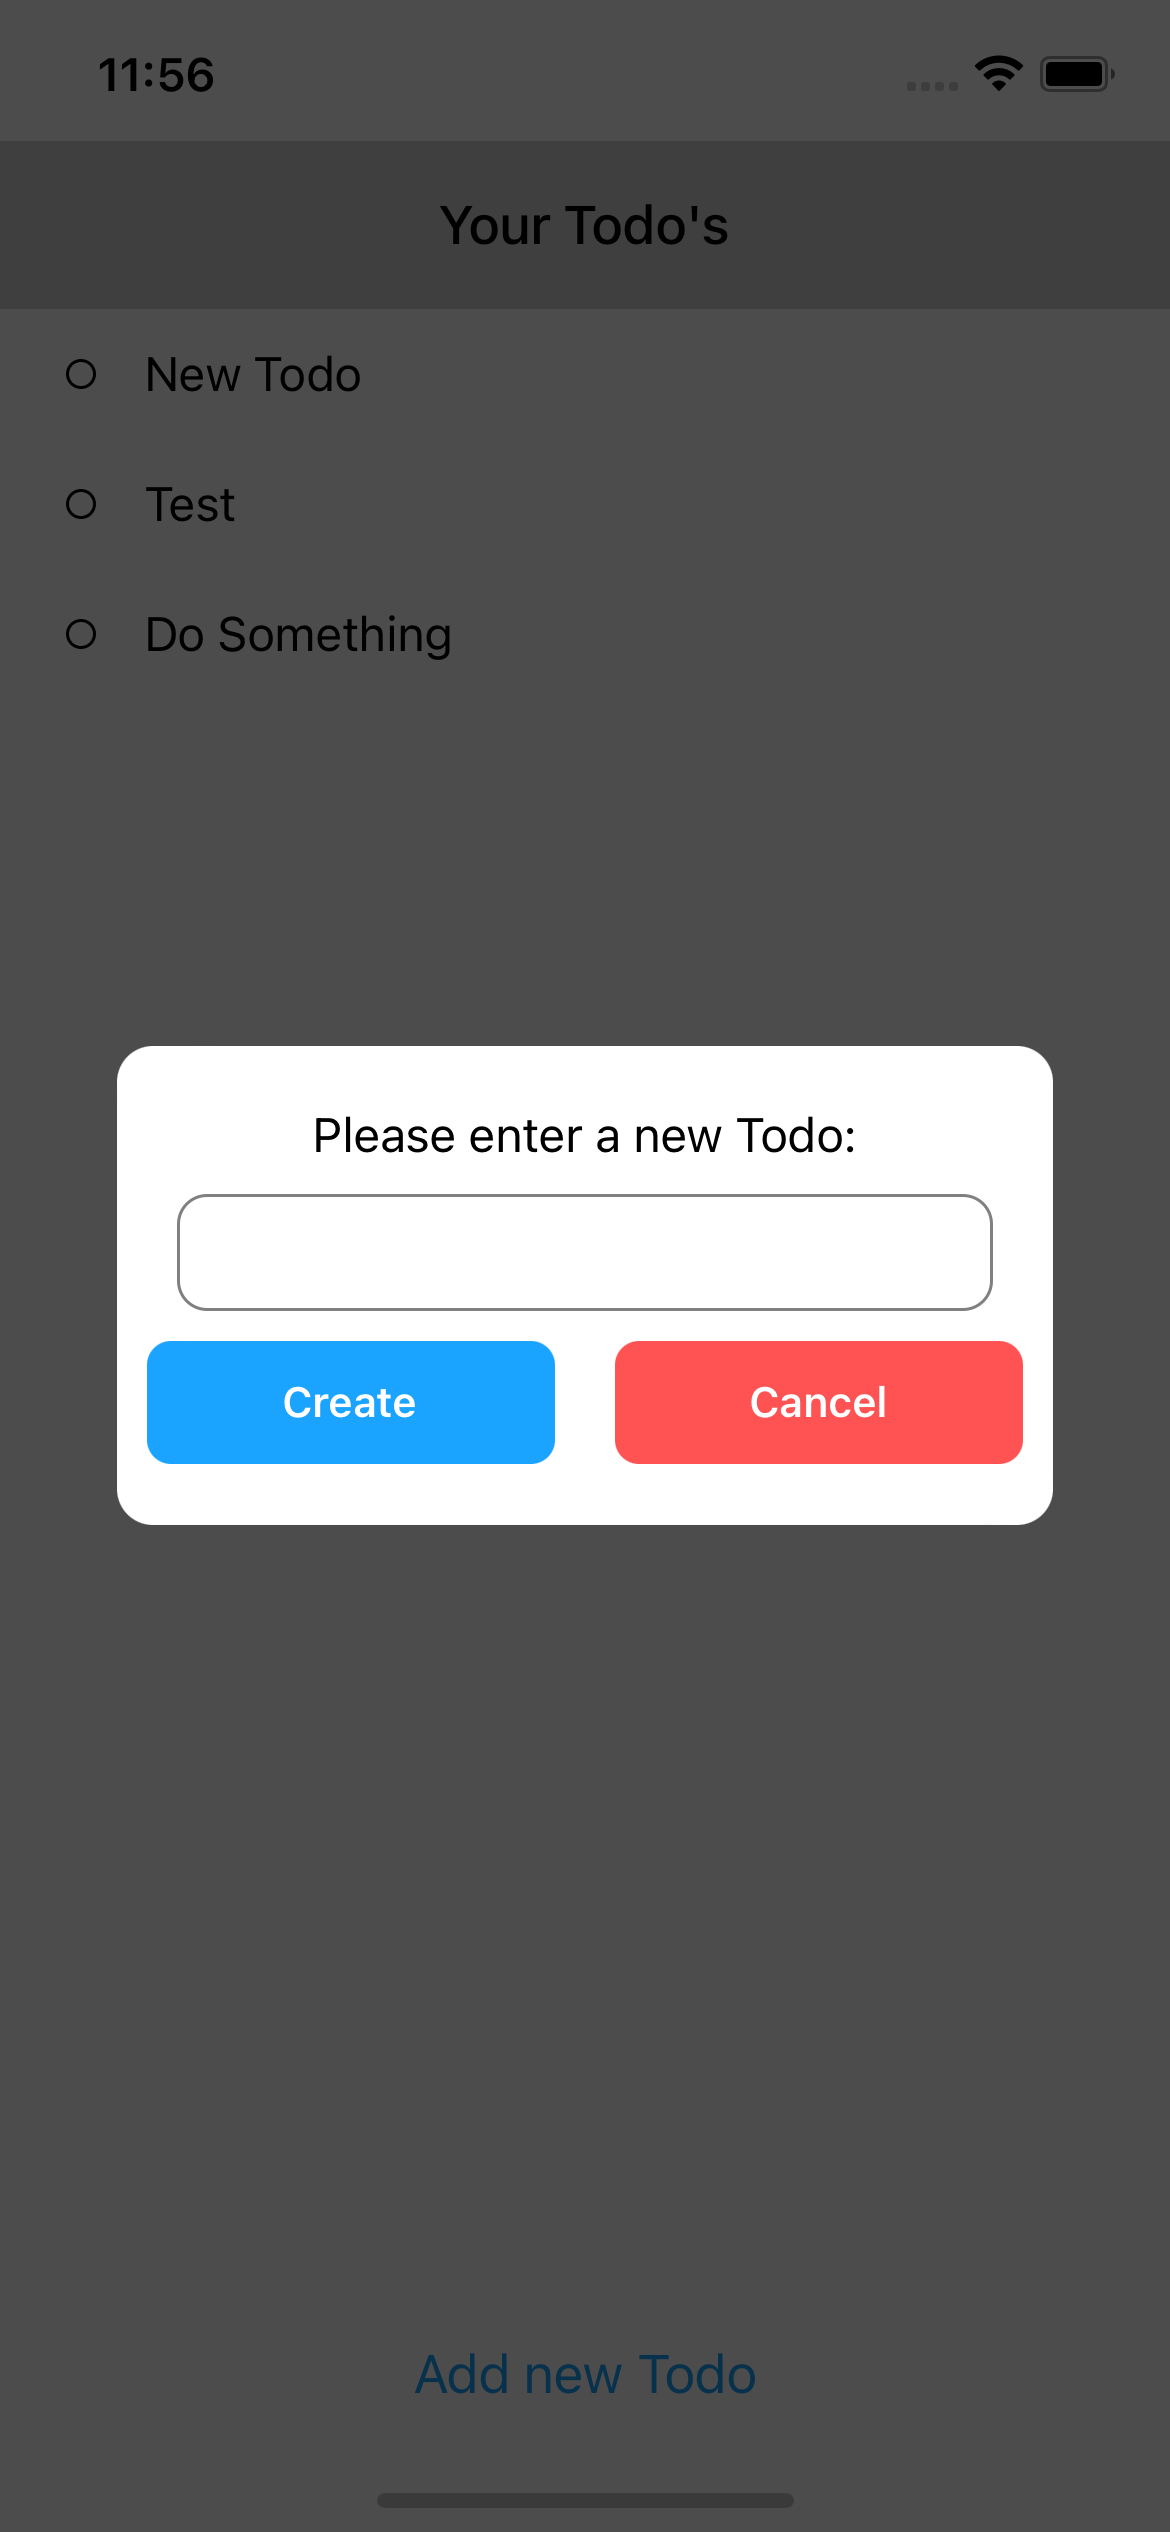
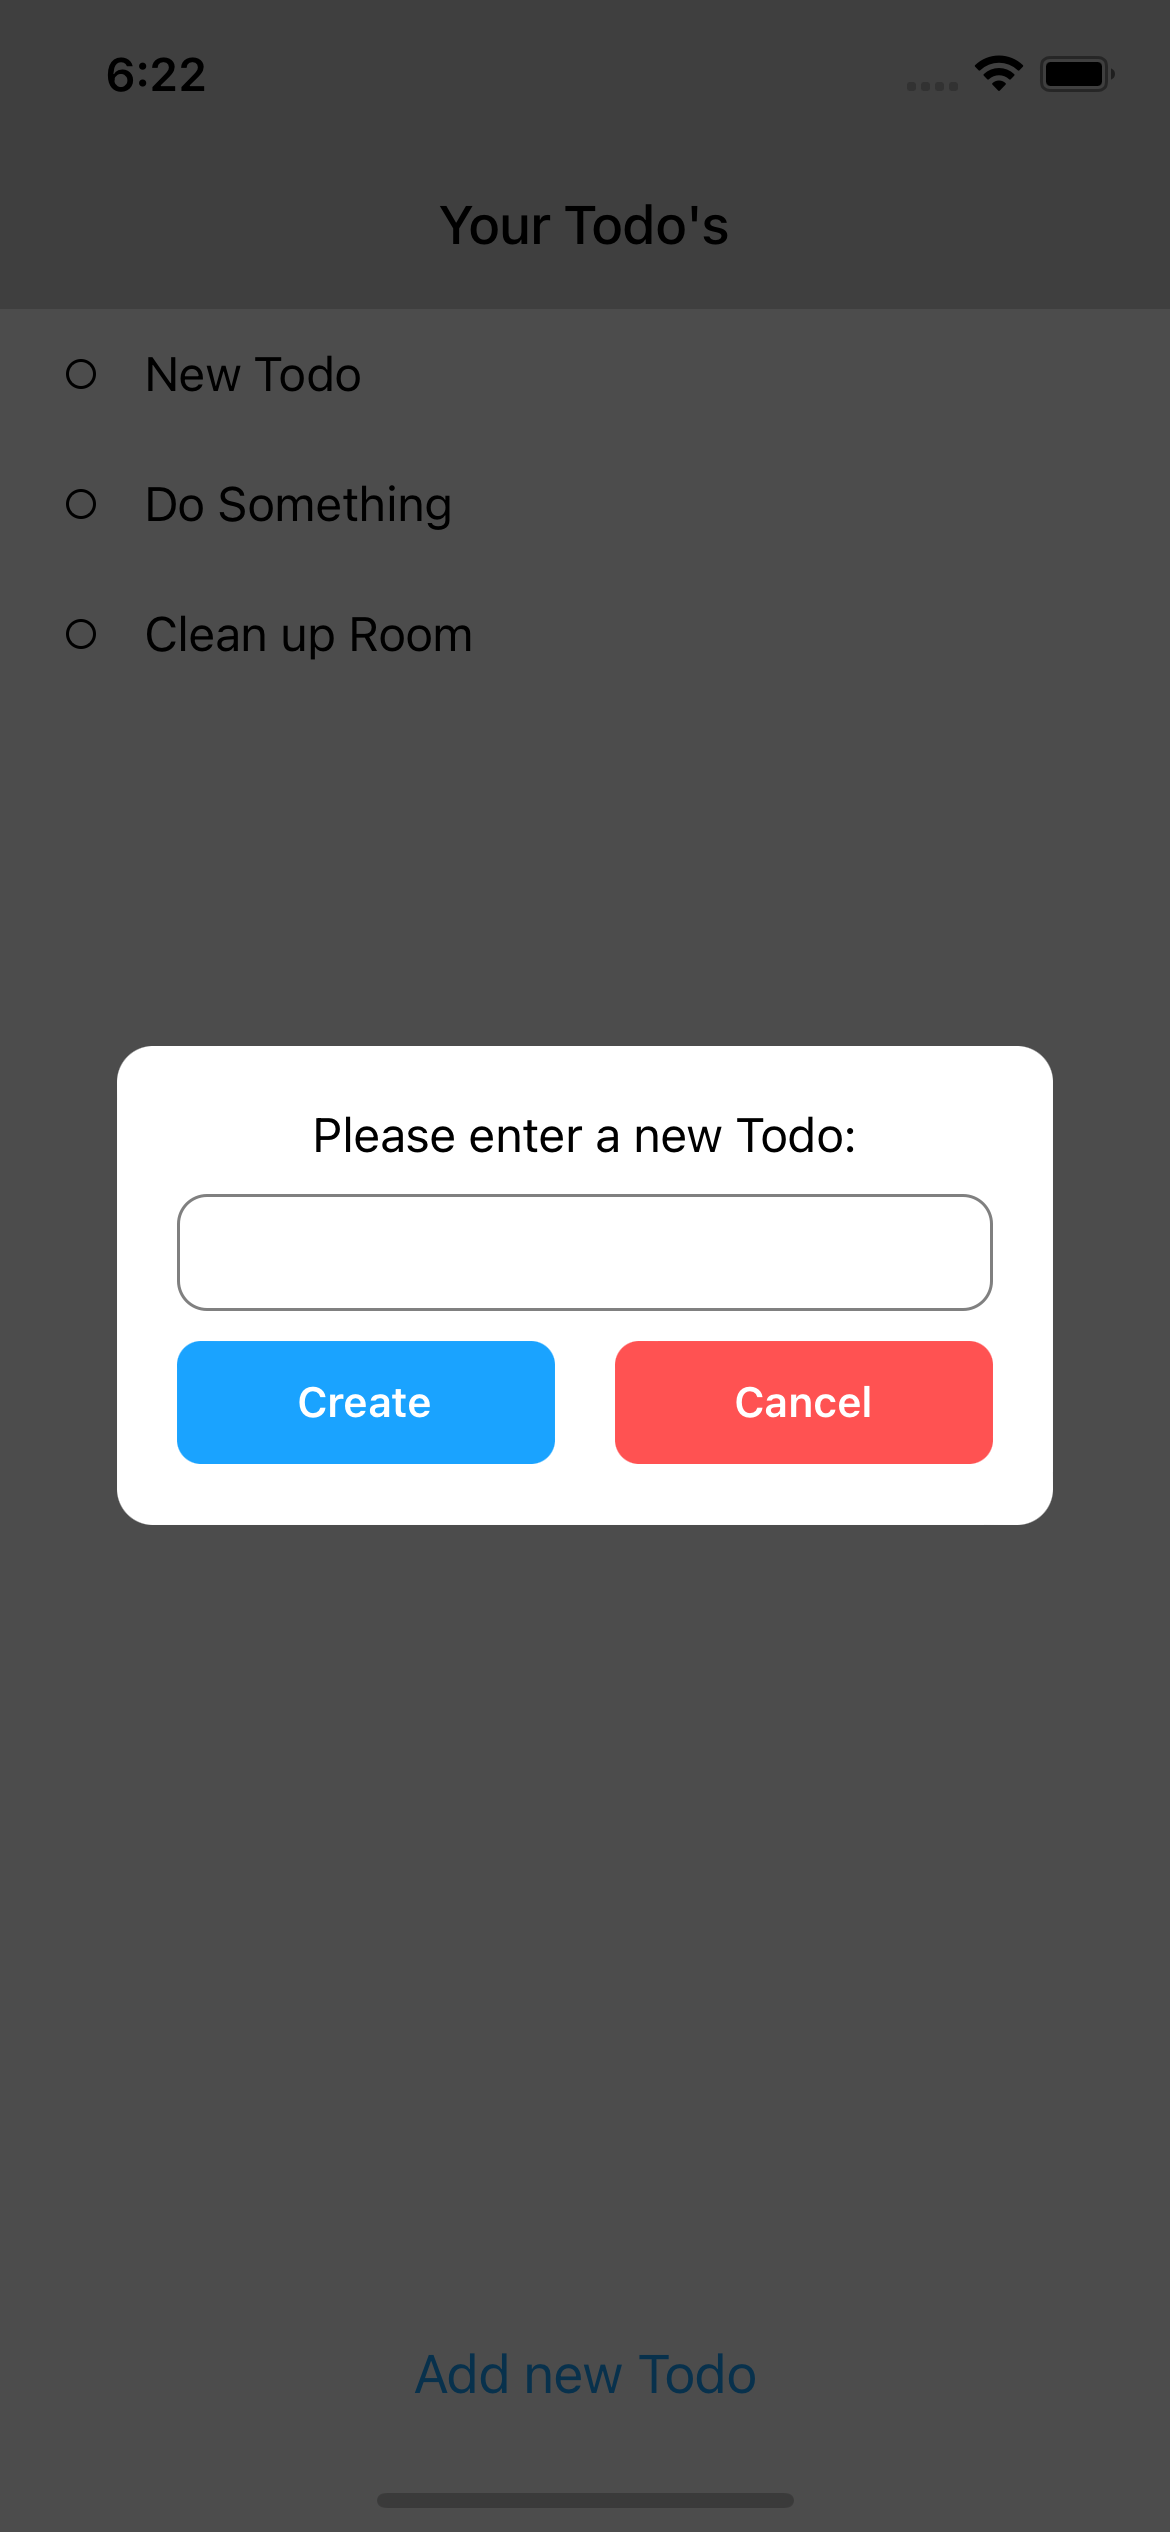
updated screenshots

diff --git a/src/components/todoInput/TodoInput.tsx b/src/components/todoInput/TodoInput.tsx
@@ -36,9 +36,10 @@ const TodoInput = (props: TodoInputProps) => {
             // just create a new Todo if Title is provided
             if (title) {
               createFunction(title)
-              setTitle("")
+            } else {
+              setErrorMessage("Please enter a Title!")
             }
-            setErrorMessage("Please enter a Title!")
+            setTitle("")
           }}>
             <View style={[styles.buttonContainer, { backgroundColor: '#1AA3FF' }]}>
               <Text style={styles.buttonText}>Create</Text>

diff --git a/src/components/safetyQuestion/SafetyQuestion.styles.tsx b/src/components/safetyQuestion/SafetyQuestion.styles.tsx
@@ -20,7 +20,8 @@ export const getStyles = (): SafetyQuestionStyles => {
       flexDirection: 'row',
       width: '100%',
       justifyContent: 'space-evenly',
-      marginBottom: 20
+      marginBottom: 20,
+      paddingHorizontal: 10
     },
     buttonContainer: {
       flex: 1,

diff --git a/src/components/todoInput/TodoInput.styles.tsx b/src/components/todoInput/TodoInput.styles.tsx
@@ -19,7 +19,8 @@ export const getStyles = (): TodoInputStyles => {
       flexDirection: 'row',
       width: '100%',
       justifyContent: 'space-evenly',
-      marginBottom: 20
+      marginBottom: 20,
+      paddingHorizontal: 10
     },
     buttonContainer: {
       flex: 1,
